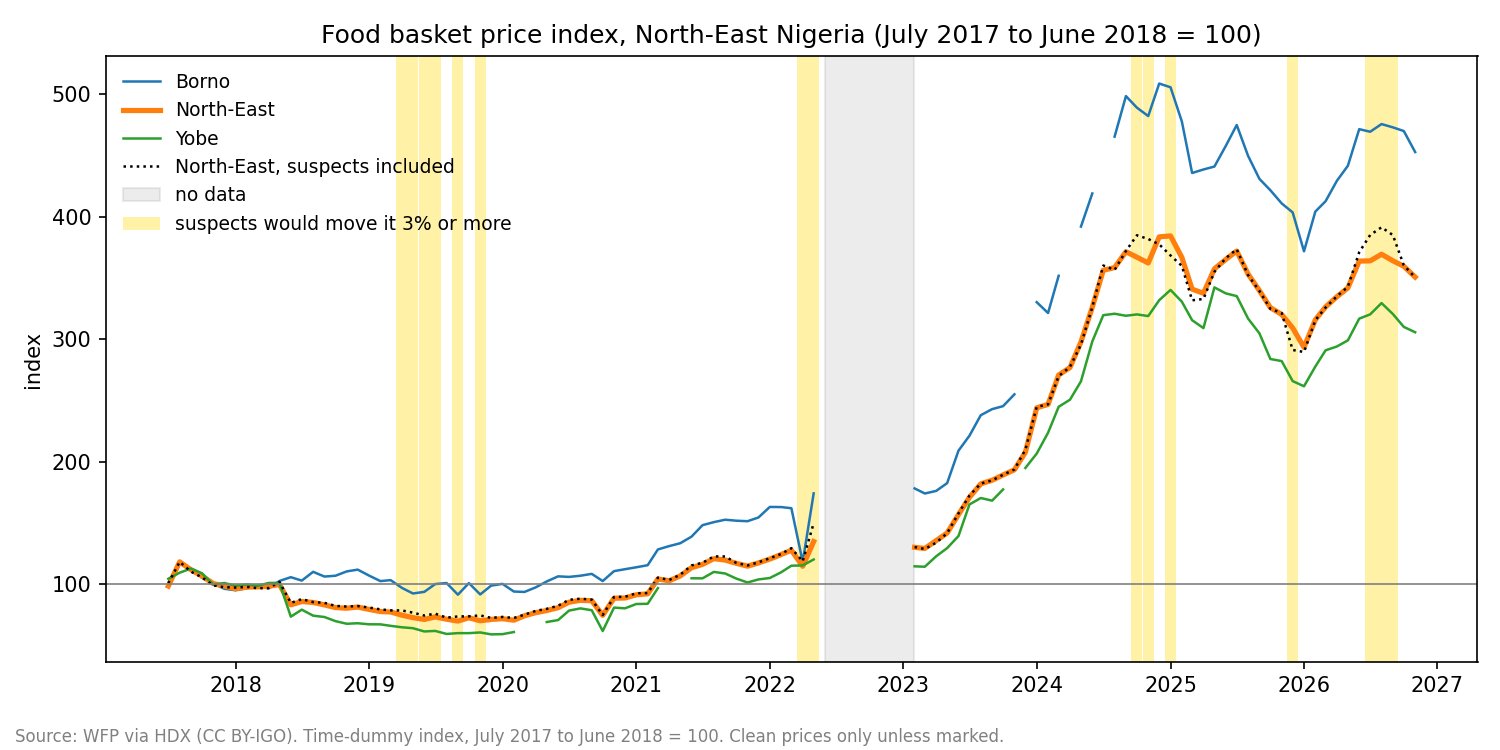
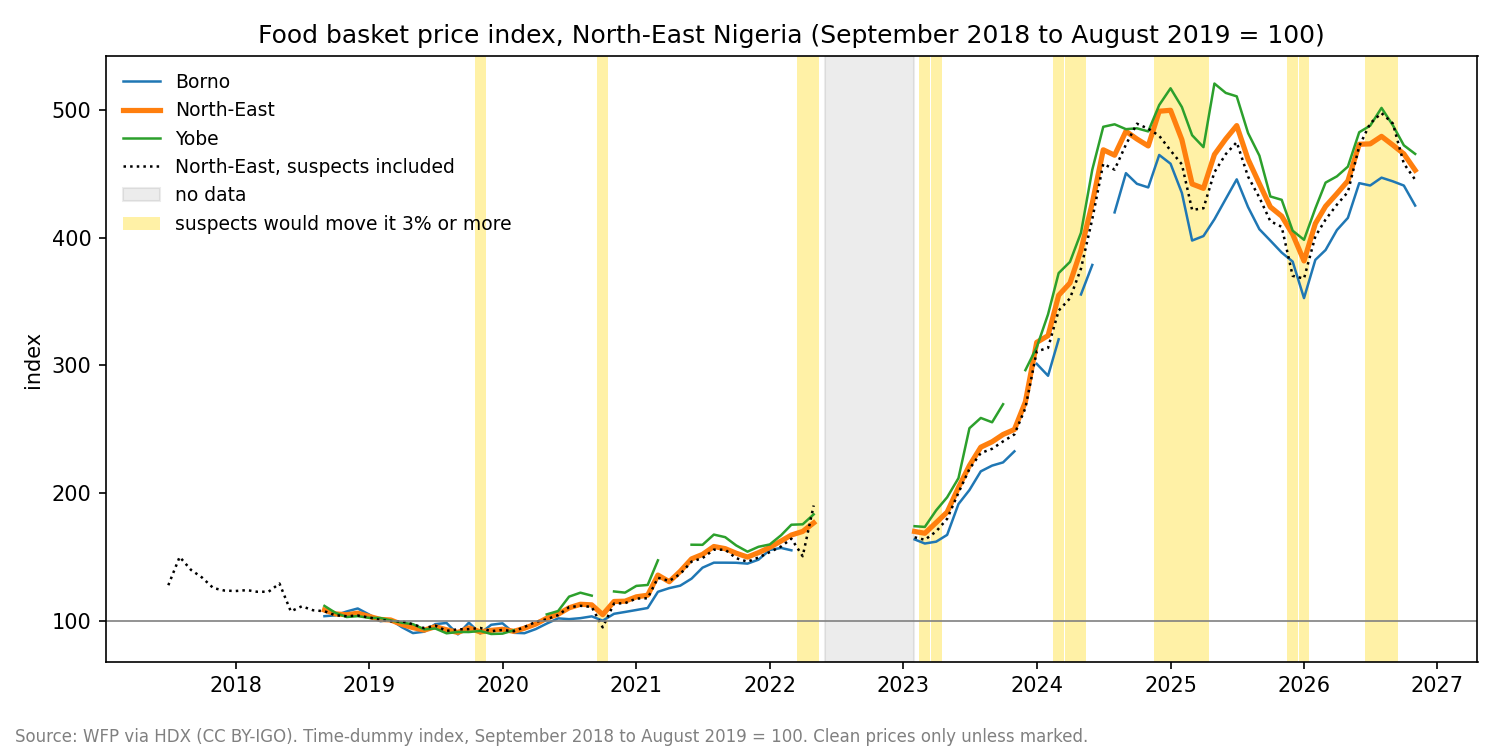
Update reports and charts

diff --git a/reports/indices_summary.md b/reports/indices_summary.md
@@ -1,12 +1,12 @@
 # Price indices: findings
 
-_Generated by `pipeline/report_indices.py`. Source: WFP via HDX (CC BY-IGO). Time-dummy index, July 2017 to June 2018 = 100. Clean prices only unless marked._
+_Generated by `pipeline/report_indices.py`. Source: WFP via HDX (CC BY-IGO). Time-dummy index, September 2018 to August 2019 = 100. Clean prices only unless marked._
 
 ## Headline (clean prices only)
 
-- In November 2026 the North-East food basket index was **350.8**: the same foods cost about **3.5 times** what they did in the year from July 2017.
-- Over the last 12 months the basket changed by **+9.5%**.
-- The fastest annual rise was **+110.3%**, in May 2024.
+- In November 2026 the North-East food basket index was **452.8**: the same foods cost about **4.5 times** what they did in the year from September 2018.
+- Over the last 12 months the basket changed by **+8.6%**.
+- The fastest annual rise was **+111.6%**, in July 2024.
 
 ![Basket index](figures/basket_index.png)
 
@@ -14,77 +14,83 @@ _Generated by `pipeline/report_indices.py`. Source: WFP via HDX (CC BY-IGO). Tim
 
 | area       | month   |   index | 12-month change   |   index with suspects | effect of suspects   |
 |:-----------|:--------|--------:|:------------------|----------------------:|:---------------------|
-| North-East | 2026-11 |   350.8 | +9.5%             |                 350.4 | -0.1%                |
-| Borno      | 2026-11 |   452.9 | +10.2%            |                 434   | -4.2%                |
-| Yobe       | 2026-11 |   305.7 | +8.4%             |                 307   | +0.4%                |
+| North-East | 2026-11 |   452.8 | +8.6%             |                 445.3 | -1.6%                |
+| Borno      | 2026-11 |   425.1 | +9.5%             |                 408.6 | -3.9%                |
+| Yobe       | 2026-11 |   465.5 | +8.4%             |                 464.9 | -0.1%                |
 
 ## Items, North-East, November 2026
 
 | food            |   index | 12-month change   | 12-month change with suspects   | effect of suspects on index   | prices suspected, all months   |
 |:----------------|--------:|:------------------|:--------------------------------|:------------------------------|:-------------------------------|
-| Beans (red)     |   230.9 | +44.6%            | +44.7%                          | -0.0%                         | 0.0%                           |
-| Onions          |   429.6 | +40.5%            | +38.5%                          | -1.5%                         | 2.1%                           |
-| Fish            |   802.4 | +34.5%            | +37.1%                          | +7.2%                         | 5.1%                           |
-| Beans (white)   |   236.6 | +34.1%            | +34.2%                          | +0.2%                         | 0.0%                           |
-| Sorghum         |   227   | +26.2%            | +26.2%                          | -0.0%                         | 0.0%                           |
-| Rice (local)    |   293.5 | +22.4%            | +22.4%                          | +0.0%                         | 0.0%                           |
-| Millet          |   236.2 | +18.6%            | +18.6%                          | +0.0%                         | 0.0%                           |
-| Maize flour     |   350.6 | +17.3%            | +17.3%                          | +0.0%                         | 0.0%                           |
-| Oil (vegetable) |   487.4 | +16.5%            | +16.5%                          | +0.0%                         | 0.0%                           |
-| Cowpeas         |   302.1 | +13.9%            | +12.2%                          | +0.5%                         | 0.4%                           |
-| Oil (palm)      |   418.2 | +12.3%            | +12.3%                          | +0.0%                         | 0.0%                           |
-| Eggs            |   612.3 | +7.6%             | +7.4%                           | -0.3%                         | 0.5%                           |
-| Milk (powder)   |   429.1 | +7.5%             | +6.3%                           | +1.0%                         | 3.6%                           |
-| Meat (goat)     |   497.8 | +6.0%             | -7.0%                           | -11.7%                        | 0.1%                           |
-| Sugar           |   357.5 | +4.5%             | +4.4%                           | -0.2%                         | 6.8%                           |
-| Groundnuts      |   358.5 | +3.9%             | +3.9%                           | +0.0%                         | 0.0%                           |
-| Salt            |    79.9 | -1.8%             | +0.2%                           | +32.3%                        | 2.5%                           |
-| Oranges         |   426.5 | -2.1%             | -1.8%                           | +0.6%                         | 1.3%                           |
-| Bananas         |   383.4 | -2.2%             | -6.0%                           | -0.3%                         | 3.1%                           |
-| Rice (imported) |   286.8 | -2.5%             | -4.0%                           | +0.1%                         | 0.2%                           |
-| Tomatoes        |   339.6 | -4.1%             | -4.2%                           | -0.4%                         | 1.8%                           |
-| Meat (beef)     |   463.6 | -5.2%             | -5.3%                           | +0.0%                         | 0.1%                           |
-| Watermelons     |   314.4 | -15.2%            | -17.5%                          | +1.2%                         | 2.6%                           |
-| Yam             |   605.2 | -19.3%            | -19.2%                          | +1.4%                         | 0.7%                           |
+| Onions          |   418.6 | +41.9%            | +38.5%                          | -1.4%                         | 15.0%                          |
+| Beans (red)     |   474.8 | +41.8%            | +44.7%                          | +2.5%                         | 13.3%                          |
+| Fish            |   630.2 | +32.5%            | +37.1%                          | +15.2%                        | 17.0%                          |
+| Beans (white)   |   445.9 | +31.3%            | +34.2%                          | +3.2%                         | 13.3%                          |
+| Sorghum         |   436.1 | +24.2%            | +26.2%                          | +2.3%                         | 13.3%                          |
+| Rice (local)    |   428.1 | +20.3%            | +22.4%                          | +2.3%                         | 12.6%                          |
+| Millet          |   425.6 | +16.8%            | +18.6%                          | +2.1%                         | 12.5%                          |
+| Maize flour     |   547.3 | +15.4%            | +17.3%                          | +2.0%                         | 13.6%                          |
+| Oil (vegetable) |   679.5 | +14.3%            | +16.5%                          | +2.5%                         | 13.1%                          |
+| Cowpeas         |   545.7 | +13.8%            | +12.2%                          | -0.1%                         | 9.5%                           |
+| Oil (palm)      |   561.6 | +10.8%            | +12.3%                          | +1.8%                         | 13.4%                          |
+| Milk (powder)   |   429.9 | +7.7%             | +6.3%                           | +0.6%                         | 16.7%                          |
+| Eggs            |   610.7 | +7.5%             | +7.4%                           | +0.0%                         | 13.5%                          |
+| Meat (goat)     |   527.6 | +5.2%             | -7.0%                           | -11.4%                        | 13.7%                          |
+| Sugar           |   542.5 | +3.1%             | +4.4%                           | +1.6%                         | 18.9%                          |
+| Groundnuts      |   531.7 | +2.2%             | +3.9%                           | +2.2%                         | 13.3%                          |
+| Oranges         |   431.2 | -1.4%             | -1.8%                           | +1.3%                         | 14.2%                          |
+| Bananas         |   409.8 | -1.7%             | -6.0%                           | +1.6%                         | 16.3%                          |
+| Salt            |   150.9 | -1.8%             | +0.2%                           | +3.2%                         | 12.5%                          |
+| Tomatoes        |   284.7 | -3.6%             | -4.2%                           | -1.6%                         | 13.9%                          |
+| Rice (imported) |   421.1 | -5.1%             | -4.0%                           | +2.5%                         | 14.5%                          |
+| Meat (beef)     |   465.7 | -5.8%             | -5.3%                           | +0.4%                         | 13.6%                          |
+| Watermelons     |   352   | -15.5%            | -17.5%                          | +3.0%                         | 15.4%                          |
+| Yam             |   520.1 | -19.1%            | -19.2%                          | -1.7%                         | 14.7%                          |
 
 ![Item changes](figures/items_yoy.png)
 
 ## Suspected prices: shown, not counted
 
-2,460 of 52,314 basket prices since July 2017 are suspected (4.7%); 1,818 of them are spinach. They stay in the clean table and are left out of every figure above. Suspected does not mean proven wrong: some may be real.
+8,927 of 52,314 basket prices since July 2017 are suspected or not comparable (17.1%); 1,818 of them are spinach and 6,144 are from before September 2018. They stay in the clean table and are left out of every figure above. Suspected does not mean proven wrong: some may be real.
 
 What putting each group back would do to the North-East basket:
 
-| group                                               |   prices | largest effect   | in      | effect in November 2026   |
-|:----------------------------------------------------|---------:|:-----------------|:--------|:--------------------------|
-| spinach, not used at all                            |     1818 | +5.0%            | 2019-09 | -1.1%                     |
-| far from other markets that month                   |      169 | +5.1%            | 2022-04 | +0.9%                     |
-| Yobe, May 2021: other foods' prices                 |       55 | +0.6%            | 2021-05 | -0.1%                     |
-| state month that jumps, then comes back             |       79 | +13.8%           | 2022-05 | +0.1%                     |
-| state 3x off both before and after (all sugar)      |      113 | +7.3%            | 2024-11 | -0.0%                     |
-| market 3x off both before and after                 |       83 | +6.8%            | 2026-07 | -0.0%                     |
-| single price 3x off the state both before and after |      143 | -1.4%            | 2023-04 | +0.1%                     |
-| **everything suspected**                            |     2460 | +11.2%           | 2022-05 | -0.1%                     |
+| group                                                     |   prices | largest effect   | in      | effect in November 2026   |
+|:----------------------------------------------------------|---------:|:-----------------|:--------|:--------------------------|
+| spinach, not used at all                                  |     1818 | -4.3%            | 2025-03 | -2.9%                     |
+| before September 2018 (Yobe measured differently)         |     6144 | +2.9%            | 2020-10 | +1.3%                     |
+| far from other markets that month                         |      123 | +4.2%            | 2022-04 | -0.1%                     |
+| Yobe, May 2021: other foods' prices                       |       55 | +0.7%            | 2021-05 | -0.0%                     |
+| state month where the whole basket jumps, then comes back |      415 | -11.8%           | 2022-04 | +0.1%                     |
+| state month that jumps, then comes back                   |       63 | +13.6%           | 2022-05 | +0.0%                     |
+| state 3x off both before and after (all sugar)            |      113 | +7.3%            | 2024-11 | -0.0%                     |
+| market 3x off both before and after                       |       70 | +6.8%            | 2026-07 | +0.0%                     |
+| single price 3x off the state both before and after       |      126 | -1.4%            | 2023-04 | +0.2%                     |
+| **everything suspected**                                  |     8927 | -11.4%           | 2022-04 | -1.6%                     |
 
 Months where all suspects together would move it by 3% or more (gold on the chart):
 
 | month   |   clean |   with suspects | effect   | 12-month change, clean   | 12-month change, with suspects   |
 |:--------|--------:|----------------:|:---------|:-------------------------|:---------------------------------|
-| 2019-04 |    74.4 |            78.3 | +5.2%    | -24.1%                   | -18.9%                           |
-| 2019-05 |    72.4 |            76.5 | +5.6%    | -27.2%                   | -24.7%                           |
-| 2019-06 |    70.9 |            74.1 | +4.5%    | -14.4%                   | -12.2%                           |
-| 2019-07 |    73   |            75.7 | +3.7%    | -14.7%                   | -13.6%                           |
-| 2019-09 |    69.6 |            73.4 | +5.4%    | -16.0%                   | -13.2%                           |
-| 2019-11 |    69.9 |            74.2 | +6.2%    | -12.8%                   | -8.9%                            |
-| 2022-04 |   114.4 |           118.4 | +3.5%    | +11.6%                   | +14.7%                           |
-| 2022-05 |   134.6 |           149.7 | +11.2%   | +26.4%                   | +39.2%                           |
-| 2024-10 |   367   |           385   | +4.9%    | +94.1%                   | +103.5%                          |
-| 2024-11 |   362.3 |           381.9 | +5.4%    | +87.4%                   | +97.3%                           |
-| 2025-01 |   384.4 |           368.4 | -4.2%    | +57.6%                   | +50.6%                           |
-| 2025-12 |   309.2 |           291.2 | -5.8%    | -19.4%                   | -22.9%                           |
-| 2026-07 |   364   |           385.2 | +5.8%    | -2.2%                    | +3.1%                            |
-| 2026-08 |   369.4 |           391.4 | +6.0%    | +4.6%                    | +11.1%                           |
-| 2026-09 |   364.1 |           385.1 | +5.8%    | +7.2%                    | +13.5%                           |
+| 2019-11 |    91.2 |            94.3 | +3.4%    | -12.8%                   | -8.9%                            |
+| 2020-10 |   104.7 |            94.8 | -9.5%    | +11.0%                   | +1.5%                            |
+| 2022-04 |   169.9 |           150.5 | -11.4%   | +30.2%                   | +14.7%                           |
+| 2022-05 |   176.6 |           190.2 | +7.7%    | +27.4%                   | +39.2%                           |
+| 2023-03 |   168.5 |           163.3 | -3.0%    | +0.8%                    | -0.5%                            |
+| 2023-04 |   176.8 |           169.9 | -3.9%    | +4.1%                    | +12.9%                           |
+| 2024-03 |   354.8 |           342.8 | -3.4%    | +110.6%                  | +109.9%                          |
+| 2024-04 |   364.5 |           352.4 | -3.3%    | +106.1%                  | +107.4%                          |
+| 2024-05 |   390.1 |           375.6 | -3.7%    | +110.9%                  | +108.9%                          |
+| 2024-12 |   499   |           479.7 | -3.9%    | +83.9%                   | +80.0%                           |
+| 2025-01 |   499.7 |           468.2 | -6.3%    | +57.2%                   | +50.6%                           |
+| 2025-02 |   476.6 |           457.3 | -4.0%    | +47.5%                   | +45.8%                           |
+| 2025-03 |   442   |           421.6 | -4.6%    | +24.6%                   | +23.0%                           |
+| 2025-04 |   438.6 |           423   | -3.5%    | +20.3%                   | +20.0%                           |
+| 2025-12 |   402.6 |           370   | -8.1%    | -19.3%                   | -22.9%                           |
+| 2026-01 |   381.7 |           367.9 | -3.6%    | -23.6%                   | -21.4%                           |
+| 2026-07 |   473.4 |           489.5 | +3.4%    | -2.9%                    | +3.1%                            |
+| 2026-08 |   479.3 |           497.4 | +3.8%    | +3.9%                    | +11.1%                           |
+| 2026-09 |   472.5 |           489.4 | +3.6%    | +6.9%                    | +13.5%                           |
 
 ## How to read this
 

diff --git a/reports/findings.md b/reports/findings.md
@@ -1,0 +1,82 @@
+# Findings
+
+_Generated by `pipeline/questions.py`. Source: WFP via HDX (CC BY-IGO). Clean prices only. North-East means Borno, Yobe and Adamawa (Adamawa until November 2025)._
+
+## 1. What does a basket of food cost?
+
+One pack of each of 24 foods cost about **₦12,123** in the year from September 2018 and **₦59,503** in November 2026: **4.9 times** as much. A year earlier it was ₦55,602 (+7.0%). The highest month was September 2024 (₦67,280).
+
+![Basket cost](figures/basket_cost.png)
+
+Largest parts of the latest cost: Meat (goat) ₦6,682 (KG), Eggs ₦6,347 (30 pcs), Meat (beef) ₦5,726 (KG), Milk (powder) ₦4,200 (400 G), Rice (imported) ₦3,962 (2.8 KG), Groundnuts ₦3,525 (2.2 KG).
+
+The price index, where every food counts equally, gives 4.5 times and +8.6% over the year. The naira basket gives dearer packs more weight, so the two differ.
+
+## 2. Which foods and places rose fastest?
+
+**Foods, since the year from September 2018:** Oil (vegetable) 6.8x, Fish 6.3x, Eggs 6.1x, Oil (palm) 5.6x, Maize flour 5.5x.
+**Foods, last 12 months:** Onions +41.9%, Beans (red) +41.8%, Fish +32.5%, Beans (white) +31.3%; falling most: Yam -19.1%, Watermelons -15.5%, Meat (beef) -5.8%.
+**States, since the year from September 2018:** Borno 4.3x, Yobe 4.7x.
+
+**Markets, last year.** 19 markets have enough matching prices. For 4 of them the direction is clear (the 95% range leaves out zero). Ranges overlap, so close ranks should not be read as real differences.
+
+| market            | state   |   foods | change   | range        |
+|:------------------|:--------|--------:|:---------|:-------------|
+| Budum             | Borno   |      22 | +28.2%   | +14% to +45% |
+| Mafa              | Borno   |      23 | +22.9%   | +10% to +37% |
+| Pulka             | Borno   |      24 | +20.6%   | +7% to +35%  |
+| Abba Gamaram      | Borno   |      20 | +12.4%   | -3% to +30%  |
+| Monguno           | Borno   |      23 | +9.3%    | -0% to +20%  |
+| Damassack (CBM)   | Borno   |      22 | +8.2%    | -3% to +20%  |
+| Banki             | Borno   |      22 | +6.4%    | -1% to +15%  |
+| Custom            | Borno   |      22 | +4.0%    | -6% to +15%  |
+| Bade (Gashua)     | Yobe    |      23 | +2.4%    | -5% to +11%  |
+| Damagum           | Yobe    |      23 | +2.3%    | -6% to +11%  |
+| Potiskum          | Yobe    |      23 | +2.0%    | -5% to +10%  |
+| Gujba (Buni Yadi) | Yobe    |      24 | +1.3%    | -7% to +10%  |
+| Bayantasha        | Yobe    |      24 | +1.2%    | -5% to +8%   |
+| Rann              | Borno   |      15 | -1.2%    | -14% to +13% |
+| Tashan Bama       | Borno   |      22 | -1.8%    | -13% to +11% |
+| Monday            | Borno   |      23 | -2.5%    | -14% to +10% |
+| Bullunkutu        | Borno   |      23 | -2.8%    | -8% to +3%   |
+| Baga Road         | Borno   |      23 | -2.9%    | -8% to +2%   |
+| Dikwa Central     | Borno   |      20 | -16.5%   | -26% to -5%  |
+
+![Markets](figures/markets_change.png)
+
+## 3. Which price moves were unusual?
+
+Largest 3-month moves of the basket:
+
+| from    | to      | change   |   foods compared |   moved that way | largest movers                                                   |
+|:--------|:--------|:---------|-----------------:|-----------------:|:-----------------------------------------------------------------|
+| 2023-12 | 2024-03 | +30.7%   |               24 |               22 | Beans (red) +66%, Beans (white) +64%, Millet +61%, Sorghum +59%  |
+| 2024-04 | 2024-07 | +28.6%   |               24 |               23 | Fish +90%, Tomatoes +66%, Beans (red) +64%, Beans (white) +63%   |
+| 2023-05 | 2023-08 | +27.5%   |               24 |               23 | Yam +95%, Maize flour +86%, Sorghum +70%, Tomatoes +64%          |
+| 2025-07 | 2025-10 | -13.1%   |               24 |               19 | Tomatoes -31%, Sorghum -30%, Onions -28%, Millet -27%            |
+| 2025-01 | 2025-04 | -12.2%   |               24 |               22 | Onions -47%, Oranges -30%, Millet -26%, Sorghum -20%             |
+| 2019-03 | 2019-06 | -7.9%    |               24 |               19 | Bananas -31%, Oranges -31%, Beans (red) -28%, Beans (white) -25% |
+
+Foods that moved more than 3 times their usual 3-month spread, in both Borno and Yobe (19 episodes, strongest 12 shown):
+
+| commodity       | from    | to      | change   | borno   | yobe    |   times usual spread |
+|:----------------|:--------|:--------|:---------|:--------|:--------|---------------------:|
+| Sugar           | 2023-12 | 2024-03 | +46.8%   | +57.0%  | +35.5%  |                  6   |
+| Salt            | 2025-02 | 2025-05 | +94.4%   | +90.1%  | +108.3% |                  5.6 |
+| Oil (vegetable) | 2022-02 | 2022-05 | +47.0%   | +44.9%  | +48.2%  |                  4.6 |
+| Milk (powder)   | 2023-10 | 2024-01 | +24.9%   | +31.1%  | +15.8%  |                  4.5 |
+| Oil (palm)      | 2022-02 | 2022-05 | +40.2%   | +32.2%  | +48.7%  |                  4.3 |
+| Onions          | 2024-08 | 2024-11 | +167.5%  | +239.3% | +64.7%  |                  4.3 |
+| Sugar           | 2023-07 | 2023-10 | +32.1%   | +29.0%  | +35.3%  |                  4.3 |
+| Oil (palm)      | 2024-10 | 2025-01 | +38.0%   | +42.3%  | +30.5%  |                  4.1 |
+| Rice (imported) | 2023-10 | 2024-01 | +41.7%   | +52.2%  | +25.7%  |                  3.9 |
+| Maize flour     | 2023-05 | 2023-08 | +86.4%   | +110.4% | +100.2% |                  3.9 |
+| Rice (imported) | 2025-07 | 2025-10 | -25.9%   | -16.3%  | -42.2%  |                 -3.8 |
+| Yam             | 2023-05 | 2023-08 | +95.1%   | +137.1% | +83.6%  |                  3.7 |
+
+## Limits
+
+- A move seen in two states is more likely real, but this does not prove it or show its cause.
+- Screening out suspected prices can also remove or soften real shocks.
+- The cost uses recent typical prices carried back with each food's index. It is an illustration, not a household budget.
+- The latest month has no later readings to test it against. Details: [indices_summary.md](indices_summary.md), [data_quality.md](data_quality.md).

diff --git a/reports/data_quality.md b/reports/data_quality.md
@@ -13,7 +13,7 @@ What made the data hard to work with while building this tracker, and how each p
 ## Prices that look wrong
 - 216 prices (0.4%) are above 5x or below 1/5 of the typical price that month. _Handled: flagged, left out of the index._
 - Milk powder, Borno, typical price per 400 g: 2022-03: 1,350, 2022-04: 15,290, 2022-05: 33,750, 2023-02: 1,880 naira. No reading exists between May 2022 and February 2023. _Handled: not counted._
-- In all, 2,460 of 52,314 basket prices since July 2017 are suspected, most of them spinach. _Handled: shown with their effect in the findings report, not counted in any final figure._
+- In all, 8,927 of 52,314 basket prices since July 2017 are suspected or not comparable, most of them from before September 2018 or spinach. _Handled: shown with their effect in the findings report, not counted in any final figure._
 - 32 dollar prices imply an exchange rate more than 5x away from the typical rate that month. _Handled: the dollar column is never used._
 
 ## Yobe, May 2021: prices that look assigned to the wrong foods
@@ -29,6 +29,30 @@ The May values for oranges, bananas and spinach match the usual price of eggs, s
 | Sugar         |       231 |        92 |       238 |
 
 _Handled: all six foods are left out for Yobe that month._
+
+## Yobe, June 2018: eleven foods halve at once and stay there
+Typical Yobe price, in naira:
+
+| food (Yobe)     |   2018-05 |   2018-06 |   2018-09 |
+|:----------------|----------:|----------:|----------:|
+| Beans (red)     |      1875 |       938 |       938 |
+| Beans (white)   |      1667 |       833 |       833 |
+| Cowpeas         |      1042 |       521 |       563 |
+| Groundnuts      |      1100 |       642 |       642 |
+| Maize flour     |       485 |       283 |       275 |
+| Millet          |       464 |       279 |       279 |
+| Rice (imported) |      2000 |      1000 |      1000 |
+| Rice (local)    |      1350 |       675 |       675 |
+| Salt            |       400 |       200 |       200 |
+| Sorghum         |       519 |       270 |       312 |
+| Sugar           |       385 |       192 |       192 |
+| Oil (palm)      |       767 |       800 |       467 |
+| Oil (vegetable) |       700 |       700 |       440 |
+
+Borno shows no such step. Both oils follow over the next two months. A change in the measure would explain it, but this is not confirmed. _Handled: final figures start in September 2018._
+
+## Whole surveys that jump and come back
+Yobe in October 2020 (basket down 22%, then up 31%) and Borno in April 2022 (down 27%, then up 45%; eggs, meat, fruit and oils are near half price). _Handled: those state months are not counted._
 
 ## Sugar: about 5x higher, twice, in every area reporting
 Typical price per 500 g, in naira:
